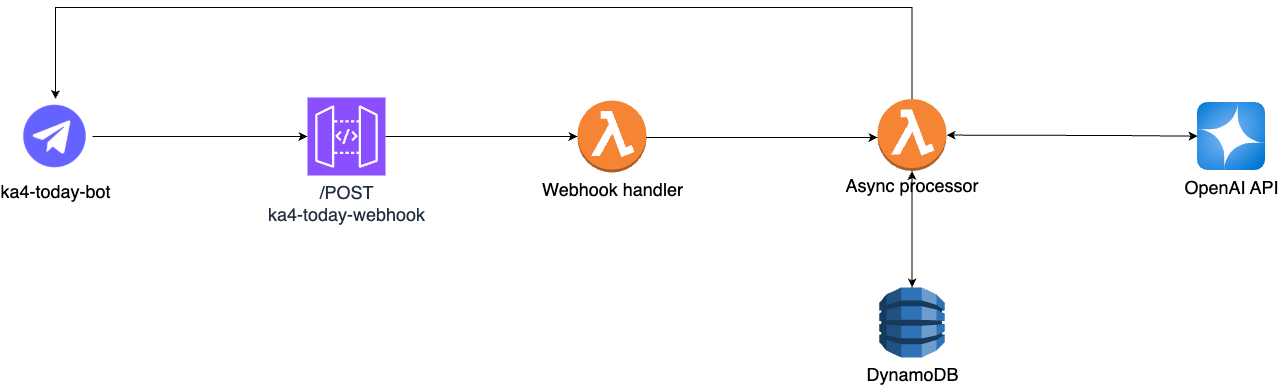
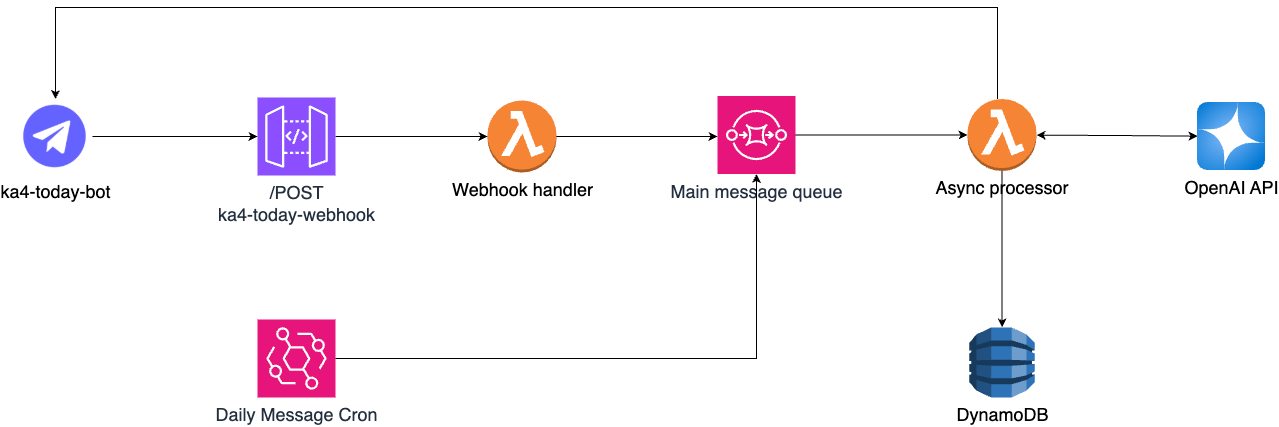
SQS integration

diff --git a/src/handlers/cronDailyMessage.js b/src/handlers/cronDailyMessage.js
@@ -1,9 +1,9 @@
 import {log} from '../utils/logger.js';
-import {InvokeCommand, LambdaClient} from "@aws-sdk/client-lambda";
-import {ASYNC_TELEGRAM_PROCESSOR} from "../config/constants.js";
+import {SQSClient, SendMessageCommand} from '@aws-sdk/client-sqs';
 import {dynamoDbService} from "../services/dynamoDbService.js";
+import {MAIN_MESSAGE_QUEUE_URL} from "../config/env.js";
 
-const lambdaClient = new LambdaClient();
+const sqsClient = new SQSClient();
 
 /**
  * AWS Lambda handler triggered by a daily scheduled event.
@@ -22,8 +22,7 @@ export const handler = async () => {
         await Promise.all(
             scheduledUsers.map(async (item) => {
                 const payload = createLambdaRequest(item);
-                log(`📤 Invoking Lambda for chat_id=${item.chat_id}, prompt_ref=${item.prompt_ref}`);
-                await invokeTelegramProcessor(payload);
+                await sendToQueue(payload);
             })
         );
     } catch (err) {
@@ -74,24 +73,18 @@ function createLambdaRequest(item) {
 }
 
 /**
- * Asynchronously invokes the Telegram processing Lambda function.
+ * Sends the message to the SQS queue.
  *
- * This function sends a fire-and-forget ("Event" type) invocation
- * to the `ASYNC_TELEGRAM_PROCESSOR` Lambda, allowing Telegram messages
- * to be processed independently of the current execution flow.
- *
- * @param {object} payload - The payload to send to the Lambda function.
- *
- * @returns {Promise<void>} A Promise that resolves when the Lambda invocation
- *   request has been successfully sent.
- *
- * @throws {Error} Throws if the Lambda invocation fails to be dispatched.
+ * @param {object} payload - The structured payload to be enqueued.
+ * @returns {Promise<void>}
  */
-async function invokeTelegramProcessor(payload) {
-    const command = new InvokeCommand({
-        FunctionName: ASYNC_TELEGRAM_PROCESSOR,
-        InvocationType: "Event",
-        Payload: Buffer.from(JSON.stringify(payload)),
+async function sendToQueue(payload) {
+    const msg = JSON.stringify(payload)
+    log(`📩 Sending to queue:${MAIN_MESSAGE_QUEUE_URL} payload:${msg}`);
+    const command = new SendMessageCommand({
+        QueueUrl: MAIN_MESSAGE_QUEUE_URL,
+        MessageBody: msg,
     });
-    await lambdaClient.send(command);
+
+    await sqsClient.send(command);
 }

diff --git a/src/handlers/ka4TodayTelegramWebhook.js b/src/handlers/ka4TodayTelegramWebhook.js
@@ -1,29 +1,27 @@
-import {LambdaClient, InvokeCommand} from "@aws-sdk/client-lambda";
+import {SQSClient, SendMessageCommand} from '@aws-sdk/client-sqs';
 import {TELEGRAM_SECURITY_TOKEN} from '../config/env.js';
-import {ASYNC_TELEGRAM_PROCESSOR} from "../config/constants.js";
+import {MAIN_MESSAGE_QUEUE_URL} from "../config/env.js";
+import {logError} from "../utils/logger.js";
 
-const lambdaClient = new LambdaClient();
+const sqsClient = new SQSClient();
 
 export const handler = async (event) => {
     if (!isAuthorized(event.headers)) {
         return buildResponse(401, 'Unauthorized');
     }
 
-    const request = JSON.parse(event.body);
+    try {
+        const request = JSON.parse(event.body);
+        await sendToQueue({request});
 
-    //async invoke
-    const command = new InvokeCommand({
-        FunctionName: ASYNC_TELEGRAM_PROCESSOR,
-        InvocationType: "Event",
-        Payload: Buffer.from(JSON.stringify({request})),
-    });
-
-    await lambdaClient.send(command);
-
-    return {
-        statusCode: 200,
-        body: JSON.stringify({ok: true}),
-    };
+        return {
+            statusCode: 200,
+            body: JSON.stringify({ok: true}),
+        };
+    } catch (err) {
+        logError("❌ Failed to process webhook", err);
+        return buildResponse(500, 'Internal Server Error');
+    }
 };
 
 function isAuthorized(headers = {}) {
@@ -35,4 +33,18 @@ function buildResponse(statusCode, message) {
         statusCode,
         body: JSON.stringify({message}),
     };
+}
+
+/**
+ * Sends a given payload to the SQS message queue.
+ * @param {Object} payload - The message payload to send.
+ * @returns {Promise<void>}
+ */
+async function sendToQueue(payload) {
+    const command = new SendMessageCommand({
+        QueueUrl: MAIN_MESSAGE_QUEUE_URL,
+        MessageBody: JSON.stringify(payload),
+    });
+
+    await sqsClient.send(command);
 }

diff --git a/src/handlers/asyncTelegramProcessor.js b/src/handlers/asyncTelegramProcessor.js
@@ -1,20 +1,40 @@
-import { mainProcessor } from '../services/mainProcessor.js';
-import { logError } from '../utils/logger.js';
+import {mainProcessor} from '../services/mainProcessor.js';
+import {logError} from '../utils/logger.js';
 
 /**
- * Entry point for async Lambda processing.
- * Receives a wrapped request forwarded from webhookReceiver.
+ * Entry point for async Lambda processing from SQS.
+ *
+ * This Lambda is triggered by messages from an SQS queue.
+ * Each message must contain a "request" field with a structure
+ * matching the Telegram webhook format.
+ *
+ * Used for unified processing of messages — whether from webhook
+ * or scheduled cron jobs.
+ *
+ * Expected message format in SQS:
+ * {
+ *   "request": {
+ *     "message": {
+ *       "chat": { "id": 123456789, ... },
+ *       "text": "/daily_greeting",
+ *       "promptRef": "chest_default"
+ *     }
+ *   }
+ * }
  */
 export const handler = async (event) => {
-    try {
-        const body = extractBody(event.request);
-        await mainProcessor.execute(body);
-        return buildResponse(200, 'OK');
-    } catch (err) {
-        logError('webhook execution failed', err);
-        const status = err.statusCode || 500;
-        const message = err.message || 'Internal Server Error';
-        return buildResponse(status, message);
+    for (const record of event.Records) {
+        try {
+            const { request } = JSON.parse(record.body);
+            const body = extractBody(request);
+            await mainProcessor.execute(body);
+            return buildResponse(200, 'OK');
+        } catch (err) {
+            logError('webhook execution failed', err);
+            const status = err.statusCode || 500;
+            const message = err.message || 'Internal Server Error';
+            return buildResponse(status, message);
+        }
     }
 };
 

diff --git a/src/config/env.js b/src/config/env.js
@@ -16,4 +16,5 @@ export const OPENAI_API_KEY = getEnvVar('OPENAI_API_KEY');
 export const OPENAI_PROJECT_ID = getEnvVar('OPENAI_PROJECT_ID');
 export const OPENAI_ASSISTANT_ID = getEnvVar('OPENAI_ASSISTANT_ID');
 export const DYNAMODB_ENDPOINT = getEnvVar('DYNAMODB_ENDPOINT', false);
+export const MAIN_MESSAGE_QUEUE_URL = getEnvVar('MAIN_MESSAGE_QUEUE_URL');
 

diff --git a/src/config/constants.js b/src/config/constants.js
@@ -1,5 +1,3 @@
-export const ASYNC_TELEGRAM_PROCESSOR = "ka4today-async-telegram-processor";
-
 export const DEFAULT_BATCH_SIZE = 100
 
 export const DEFAULT_LANG = "ua"

diff --git a/README.md b/README.md
@@ -8,13 +8,25 @@ It processes a simple webhook message, interacts with OpenAI to generate a respo
 ## 📐 Architecture
 <img src="assets/ka4-today.arch.png">
 
-- **Telegram Webhook** via **API Gateway (HTTP API) → Lambda**
-- **Asynchronous processing** via a second Lambda (asyncProcessor) invoked with InvokeFunction
-- **Integration with OpenAI Assistants API v2** (threads, runs, messages, functions)
-- **Structured logging** with ### LABEL:start/stop, distinguishing api-level and low-level errors
-- **Custom HTTP client** with timeouts, hidden responses, and semantic errorClass
-- **DynamoDB** for storing Telegram users (chat_id, username, etc.) + GSI ActiveUsersIndex
-- **CloudWatch** Logs and Dashboards with key metrics like Invocations, Errors
+- **Telegram Webhook** is handled via **API Gateway (HTTP API)** → lightweight **Lambda**,  
+  which pushes messages to an **Amazon SQS queue** instead of invoking the processor directly.
+- **Amazon SQS** acts as a **decoupling layer and rate controller**,  
+  enabling safe and scalable asynchronous processing.
+- The **Async Processor Lambda** consumes messages from the SQS queue with controlled concurrency  
+  (e.g. `MaximumConcurrency: 2`) to avoid hitting **OpenAI token limits**.
+- Integration with **OpenAI Assistants API v2**: threads, runs, tool calls, file search support.
+- **Structured logging** with semantic markers (`### LABEL:start/stop`),  
+  distinguishing between API-level and low-level errors.
+- **Custom HTTP client** with:
+  - timeouts,
+  - semantic `errorClass`,
+  - optional hidden responses (for logging privacy or size constraints).
+- **DynamoDB** for:
+  - Telegram users (`chat_id`, `username`, etc.),
+  - Prompt references,
+  - Daily training schedule,
+  - Invocation logs.
+
 ---
 
 ## ⭐ Features
